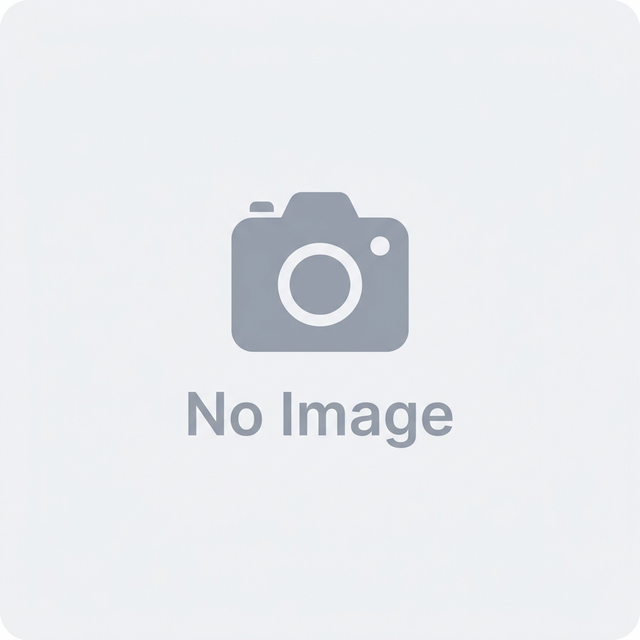
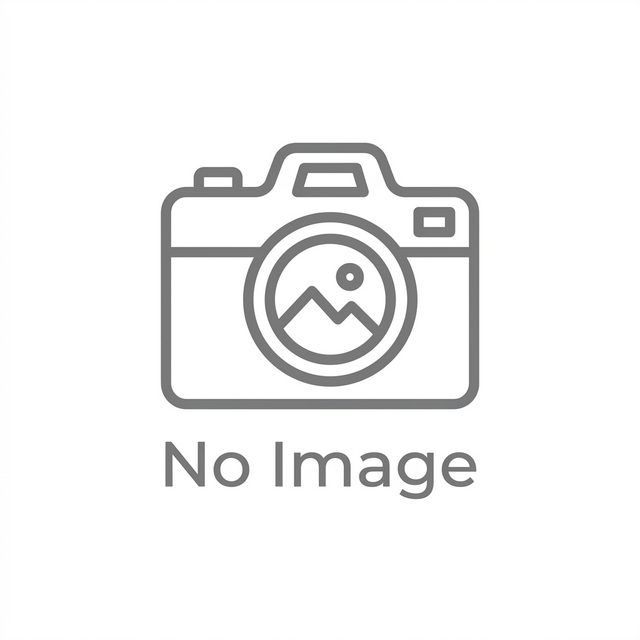
Improve no-image placeholder - larger, clearer professional image

Changed region(s): [[0.25, 0.2188, 0.75, 0.7812]]

diff --git a/src/app/dashboard/products/page.tsx b/src/app/dashboard/products/page.tsx
@@ -623,7 +623,7 @@ export default function ProductsPage() {
                                     {p.photo ? (
                                         <img src={p.photo} alt={p.product_name} className="w-full h-full object-cover" onError={e => { (e.target as HTMLImageElement).src = '/no-image.png'; }} />
                                     ) : (
-                                        <img src="/no-image.png" alt="No image" className="max-h-[80px] max-w-[80px] object-contain opacity-50" />
+                                        <img src="/no-image.png" alt="No image" className="h-[110px] w-[110px] object-contain" />
                                     )}
                                     <div className="absolute top-2 right-2 flex gap-1 opacity-0 group-hover:opacity-100 transition-opacity">
                                         <button onClick={() => openEditModal(p)} className="p-1.5 bg-white/90 rounded-lg text-blue-600 hover:bg-white shadow-sm"><FiEdit2 size={12} /></button>
@@ -677,7 +677,7 @@ export default function ProductsPage() {
                                                         </div>
                                                     ) : (
                                                         <div className="w-10 h-10 rounded-xl overflow-hidden border border-gray-200 flex-shrink-0 bg-gray-50">
-                                                            <img src="/no-image.png" alt="No image" className="w-full h-full object-contain opacity-60" />
+                                                            <img src="/no-image.png" alt="No image" className="w-full h-full object-contain" />
                                                         </div>
                                                     )}
                                                     <div>

diff --git a/src/app/dashboard/pos/page.tsx b/src/app/dashboard/pos/page.tsx
@@ -194,7 +194,7 @@ const ProductCard = ({ product, onAdd }: { product: Product; onAdd: () => void }
             {product.imageUrl ? (
                 <img src={product.imageUrl} alt={product.name} className="max-h-[100px] max-w-[100px] object-contain" onError={(e) => { (e.target as HTMLImageElement).src = '/no-image.png'; }} />
             ) : (
-                <img src="/no-image.png" alt="No image" className="max-h-[90px] max-w-[90px] object-contain opacity-60" />
+                <img src="/no-image.png" alt="No image" className="h-[100px] w-[100px] object-contain" />
             )}
         </div>
         {/* Content */}
